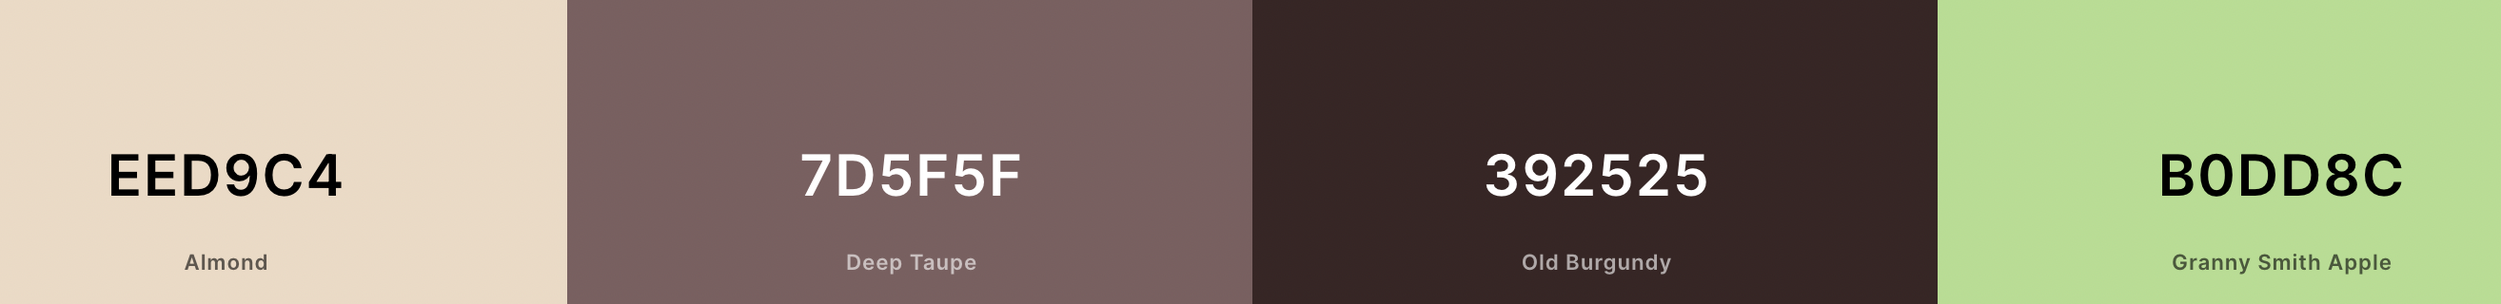
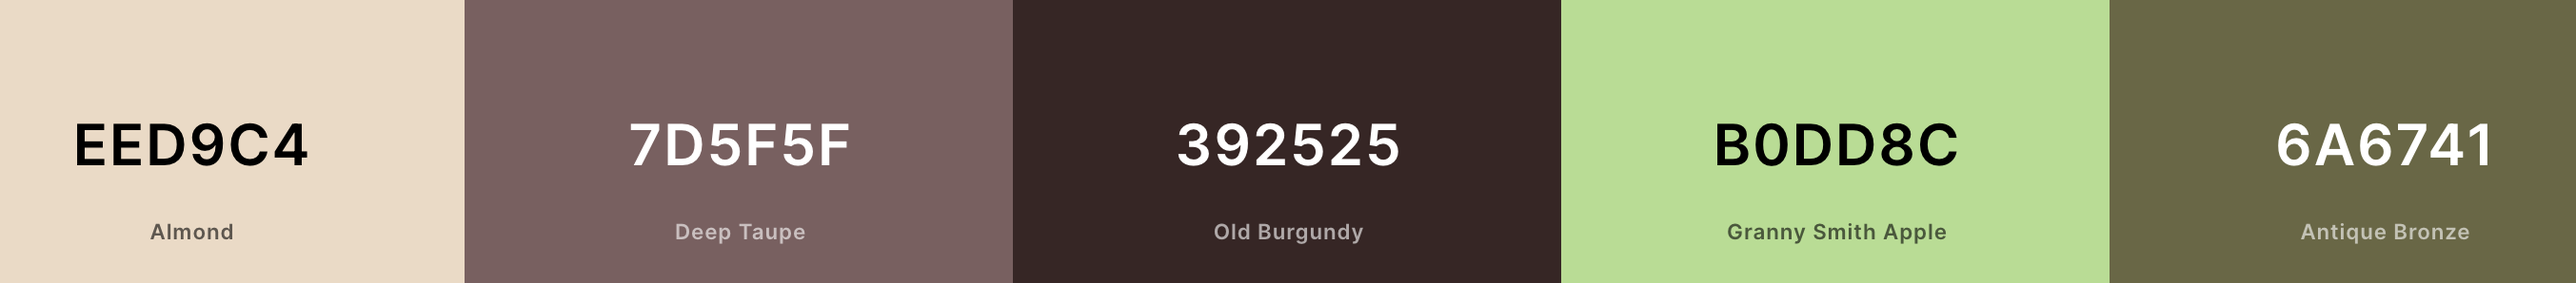
Feat: Converted hero img to webp. Added object fit to image.

diff --git a/assets/css/style.css b/assets/css/style.css
@@ -71,7 +71,7 @@ a {
     height: 60vh;
     width: 100%;
     opacity: 0.8;
-    background: url(../images/hero.jpeg) no-repeat center center;
+    background: url(../images/hero.webp) no-repeat center center;
     background-size: cover;
 
     /* Animating zoom effect */
@@ -103,6 +103,7 @@ a {
     margin: 0 auto;
     box-shadow: 0px 0px 20px 4px rgb(57 37 37);
     opacity: 0.8;
+    object-fit: cover
 }
 
 /* Styling paragraphs and h2 */

diff --git a/README.md b/README.md
@@ -10,7 +10,7 @@ What do you do when you spill something on your favourite shirt or desperate for
 We might not have the cure but a few good tips and tricks to make you feel a little bit better.
 If you like this website you can sign-up to get new updates for new home remedies.
 Or you could leave a message if you have a good one yourself, it's up to you.
-![screenshot](images.readme/AmIResp.png)
+![screenshot](images.readme/respons.png)
 
 ## Index - table of contents
 
@@ -45,7 +45,7 @@ Or you could leave a message if you have a good one yourself, it's up to you.
   
    ### F1, Navigationbar
       The navigation bar has a simple and easy navigation to it on all devices.
-      It´s easy to find the different locators like "Stains", "Feeling sick?" "Sidney Rez" and "Sign-Up".
+      It´s easy to find the different locators like "Stains", "Sick?" "Tips!" and "Sign-Up".
       It lights up when the user hovers over the text, creating a animating effect and improving the page.
 * ![screenshot](./images.readme/navbar.png)
 
@@ -53,7 +53,7 @@ Or you could leave a message if you have a good one yourself, it's up to you.
       The hero image is used to point out what vibe the site is giving out.
       A little mixture of mixing matcha tea, creating a feeling of home remedies.
       Animating zoom effect going from big to smal, creating a nice enviroment on the website.
-* ![screenshot](../project-1.resub/assets/images/hero.jpg)
+* ![screenshot](../project-1.resub/assets/images/hero.jpeg)
 
   ### F3, Iframe video
       The main purpose of the iframe video is to show the visitor what they can discover themselves if they think outside the box. Do they have a life hack or home remedy, they might get inspired and leave a comment to the website allowing the website to grow.
@@ -65,11 +65,12 @@ Or you could leave a message if you have a good one yourself, it's up to you.
         Creating a button to float along on the side as the user scrolls on website.
         Giving them the option to click on the up icon button and go back to top where they can accsses the menu again.
         I used anchor element to make the button and put an icon inside of it.
-        I styled it to have a green see through effect, that way it wont be taking over other content.
+        I styled it to have a green see through effect, that way it wont be taking over other content. I struggled a little bit to find the right colors, eventually I figured something out that works good & moved the button to the right side.
 
-        I realized the footer was covering a smal part of the button on a specific place. I fixed it by adding a     z-index to 1. I'll insert a before & after I saw the problem and fixed it:
+        I realized the footer was covering a smal part of the button on a specific place. I fixed it by adding a z-index to 1. I'll insert a before & after I saw the problem and fixed it:
 * ![screenshot](images.readme/scroll-up-1.png)
 * ![screenshot](images.readme/scroll-up.png)
+* ![screenshot](images.readme/up-button.png)
     
 
 
@@ -98,7 +99,8 @@ Or you could leave a message if you have a good one yourself, it's up to you.
     Almond color is set to the background, creating a warm tone.
     Deep Taupe is used for the border on sign-up form and paragraphs.
     Old Burgundy is used for shadowing boxes, the text color to headings, paragraphs and icons.
-    Only green is used in hero image, hover color for the menu and scroll up button.
+    Granny Smith Apple is only used in hero image and scroll up button.
+    Antique Bronze is used for the hover effect on the menu, I wanted the color to match the hero-image.
 * ![screenshot](images.readme/colorscheme.png)
     
 
